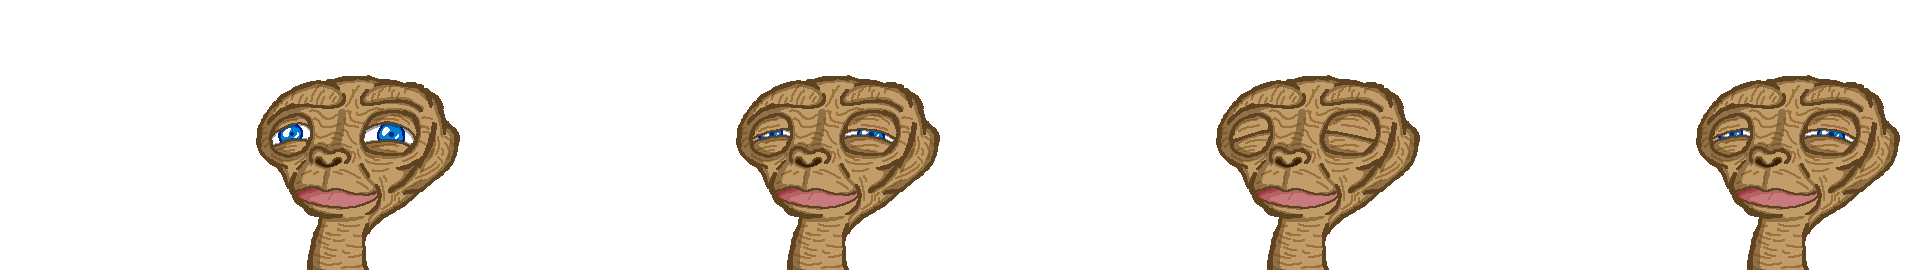
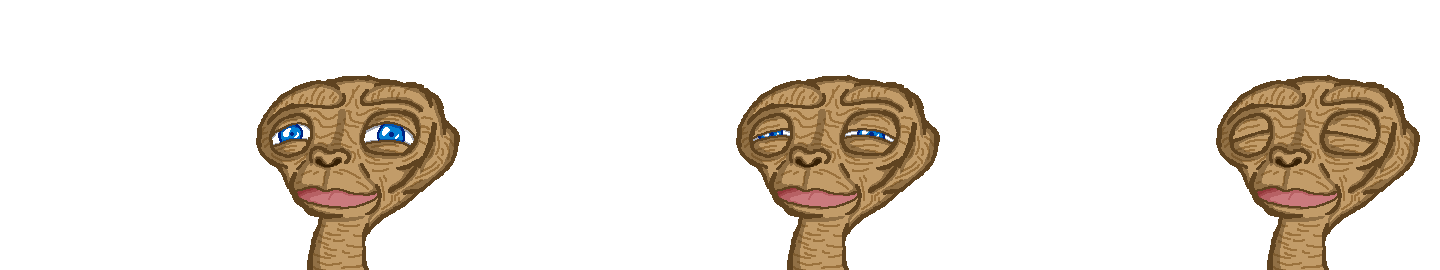
Title screen updated

diff --git a/src/scenes/Menu.js b/src/scenes/Menu.js
@@ -4,8 +4,69 @@ class Menu extends Phaser.Scene{
     }
 
     create(){
-        bg = this.add.sprite(game.config.width/2, game.config.height/2,'background', 0);
-        bg.setScale(2);
+        bg = this.add.sprite(game.config.width/2, game.config.height/2,'menu_bg', 0).setScale(1.33);   
+        this.tweens.add ({
+            targets: [this.add.sprite(game.config.width/2, game.config.height/2, 'stars', 0).setScale(1.33)],
+            alpha: 0.5,
+            duration: 1500,
+            loop: -1,
+            yoyo: true,
+            ease: 'Quad.easeInOut'
+        });     
+        this.tweens.add ({
+            targets: [this.add.sprite(game.config.width/2, game.config.height/2, 'glow1', 0).setScale(1.33)],
+            alpha: 0,
+            duration: 3000,
+            loop: -1,
+            yoyo: true,
+            ease: 'Quad.easeInOut'
+        });
+        this.tweens.add ({
+            targets: [this.add.sprite(game.config.width/2, game.config.height/2, 'glow2', 0).setScale(1.33)],
+            alpha: 0.25,
+            duration: 3000,
+            loop: -1,
+            yoyo: true,
+            ease: 'Quad.easeInOut'
+        });
+        this.tweens.add ({
+            targets: [this.add.sprite(game.config.width/2, game.config.height/2, 'glow3', 0).setScale(1.33)],
+            alpha: 0.5,
+            duration: 3000,
+            loop: -1,
+            yoyo: true,
+            ease: 'Quad.easeInOut'
+        });
+        this.add.sprite(game.config.width/2, game.config.height/2, 'moon', 0).setScale(1.33);
+        this.tree1 = this.add.tileSprite(game.config.width/2, game.config.height/2, 0, 0, 'tree1').setScale(1.33);
+        this.tree2 = this.add.tileSprite(game.config.width/2, game.config.height/2, 0, 0, 'tree2').setScale(1.33);
+
+        this.blink_anim = this.anims.create ({
+            key: 'blink',
+            frames: this.anims.generateFrameNumbers('menu_ET', {start: 0, end: 2}),
+            frameRate: 12,
+            repeat: 0,
+            yoyo: true
+        })
+
+        this.menu_ET = this.add.sprite(game.config.width/2, game.config.height/2, 'menu_ET', 0).setScale(1.33);
+        this.blink();
+
+        this.tweens.add({
+            targets: [this.add.sprite(game.config.width/2, game.config.height/2, 'text1', 0).setScale(1.33).setAlpha(0)],
+            alpha: 1,
+            duration: 1000,
+            ease: 'Quad.easeOut'
+        })
+
+        this.tweens.add({
+            targets: [this.add.sprite(game.config.width/2, game.config.height/2, 'text2', 0).setScale(1.33).setAlpha(0)],
+            alpha: 1,
+            duration: 1000,
+            loop: -1,
+            yoyo: true,
+            ease: 'Quad.easeOut'
+        })
 
         game.global = {
             fall : false,
@@ -15,12 +76,25 @@ class Menu extends Phaser.Scene{
 
         //define keys
         keySPACE = this.input.keyboard.addKey(Phaser.Input.Keyboard.KeyCodes.SPACE);
+
     }
 
     update(){
+        let treeSpeed = 0.1
+        this.tree1.tilePositionX -= treeSpeed;
+        this.tree2.tilePositionX -= (treeSpeed * 2);
+
         if (Phaser.Input.Keyboard.JustDown(keySPACE)) {
             game.global.bg_map = 1;
             this.scene.start('playScene');
         }
+    }
+
+    blink() {
+        if (Phaser.Math.Between(0, 1)) {
+            this.blink_anim.repeat = Phaser.Math.Between(0, 1);
+            this.menu_ET.play('blink');
+        }
+        this.time.delayedCall(1000, this.blink, [], this);
     }
 }

diff --git a/src/scenes/Load.js b/src/scenes/Load.js
@@ -10,11 +10,12 @@ class Load extends Phaser.Scene{
         this.load.image('glow2', './assets/menu/glow2.png');
         this.load.image('glow3', './assets/menu/glow3.png');
         this.load.image('moon', './assets/menu/moon.png');
+        this.load.image('stars', './assets/menu/stars.png');
         this.load.image('text1', './assets/menu/text1.png');
         this.load.image('text2', './assets/menu/text2.png');
         this.load.image('tree1', './assets/menu/tree1.png');
         this.load.image('tree2', './assets/menu/tree2.png');
-        this.load.spritesheet('menu_ET', './assets/menu/et_sheet.png', {frameWidth: 480, frameHeight: 270, endFrame: 3});
+        this.load.spritesheet('menu_ET', './assets/menu/et_sheet.png', {frameWidth: 480, frameHeight: 270, endFrame: 2});
 
 
         this.load.spritesheet('background', './assets/background_spritesheet.png', { frameWidth: 320, frameHeight: 210, endFrame: 8, margin: 1, spacing: 3 });
